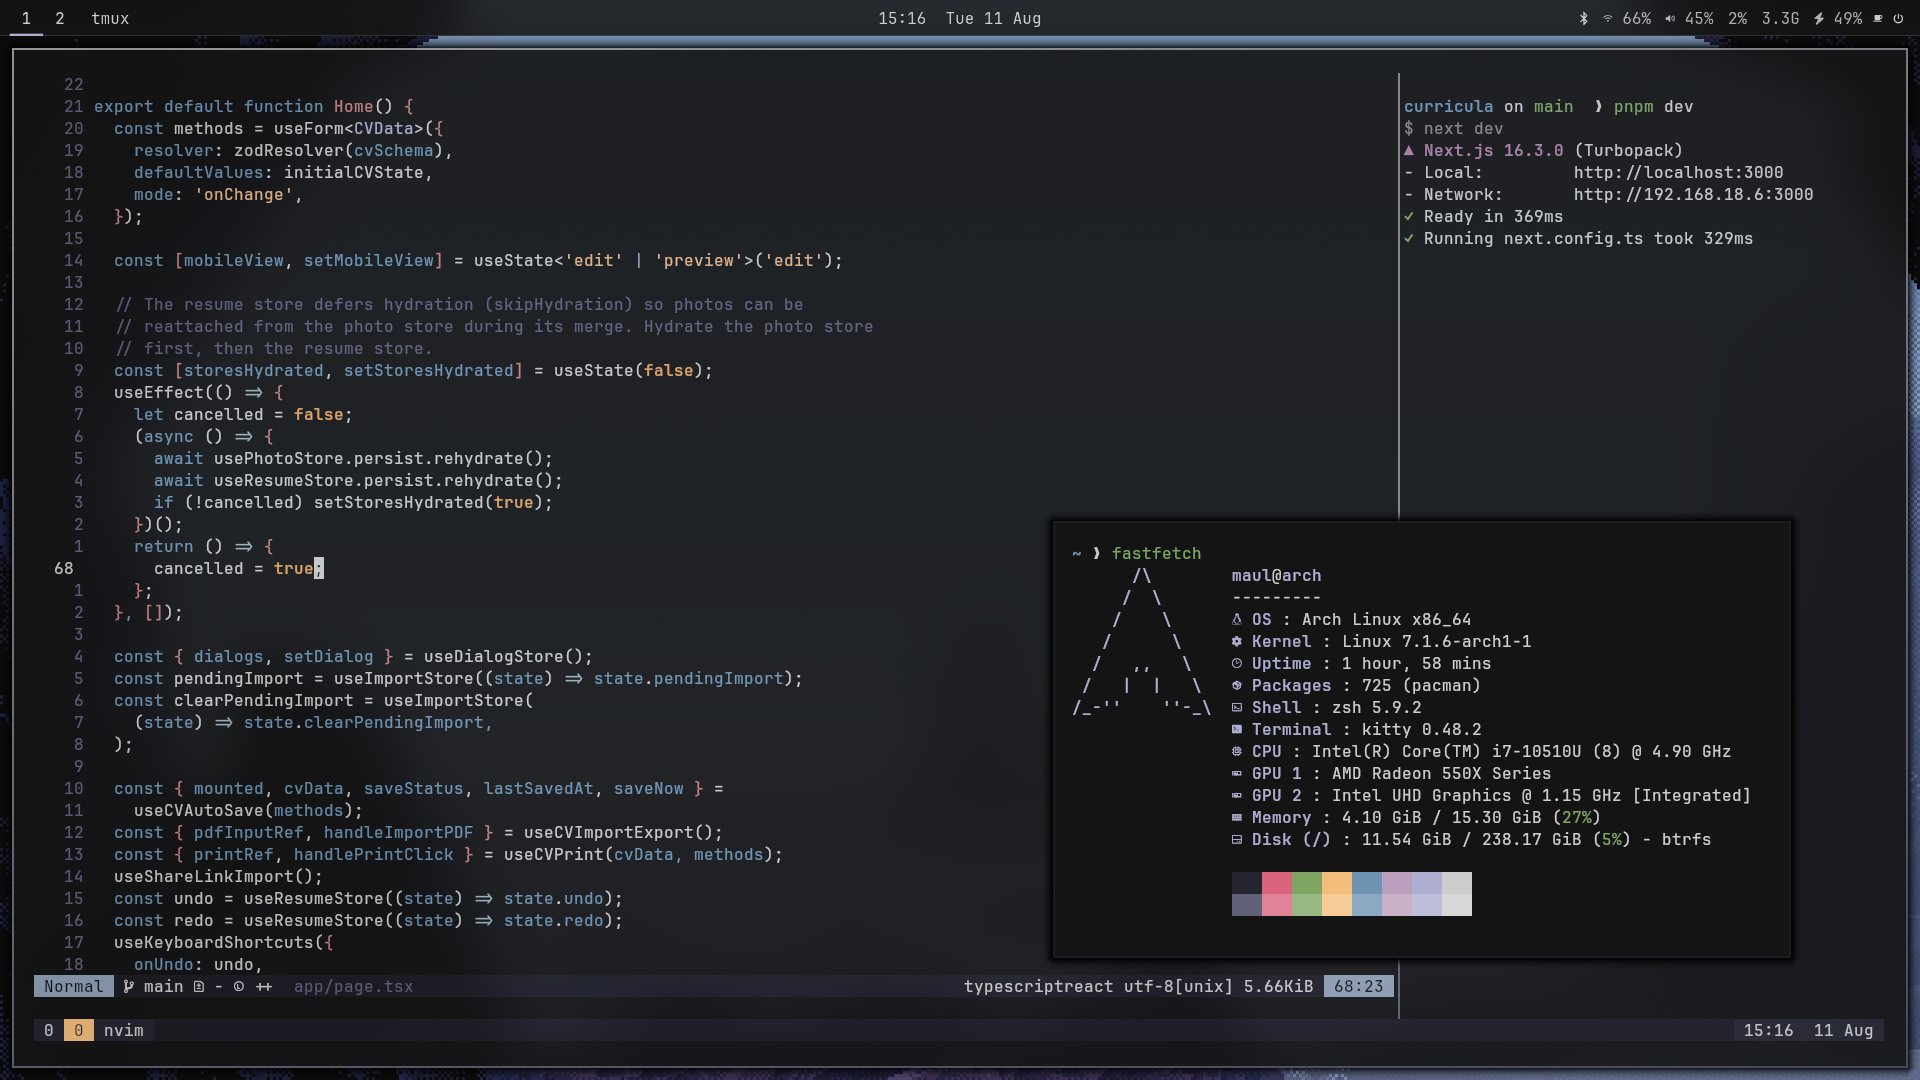
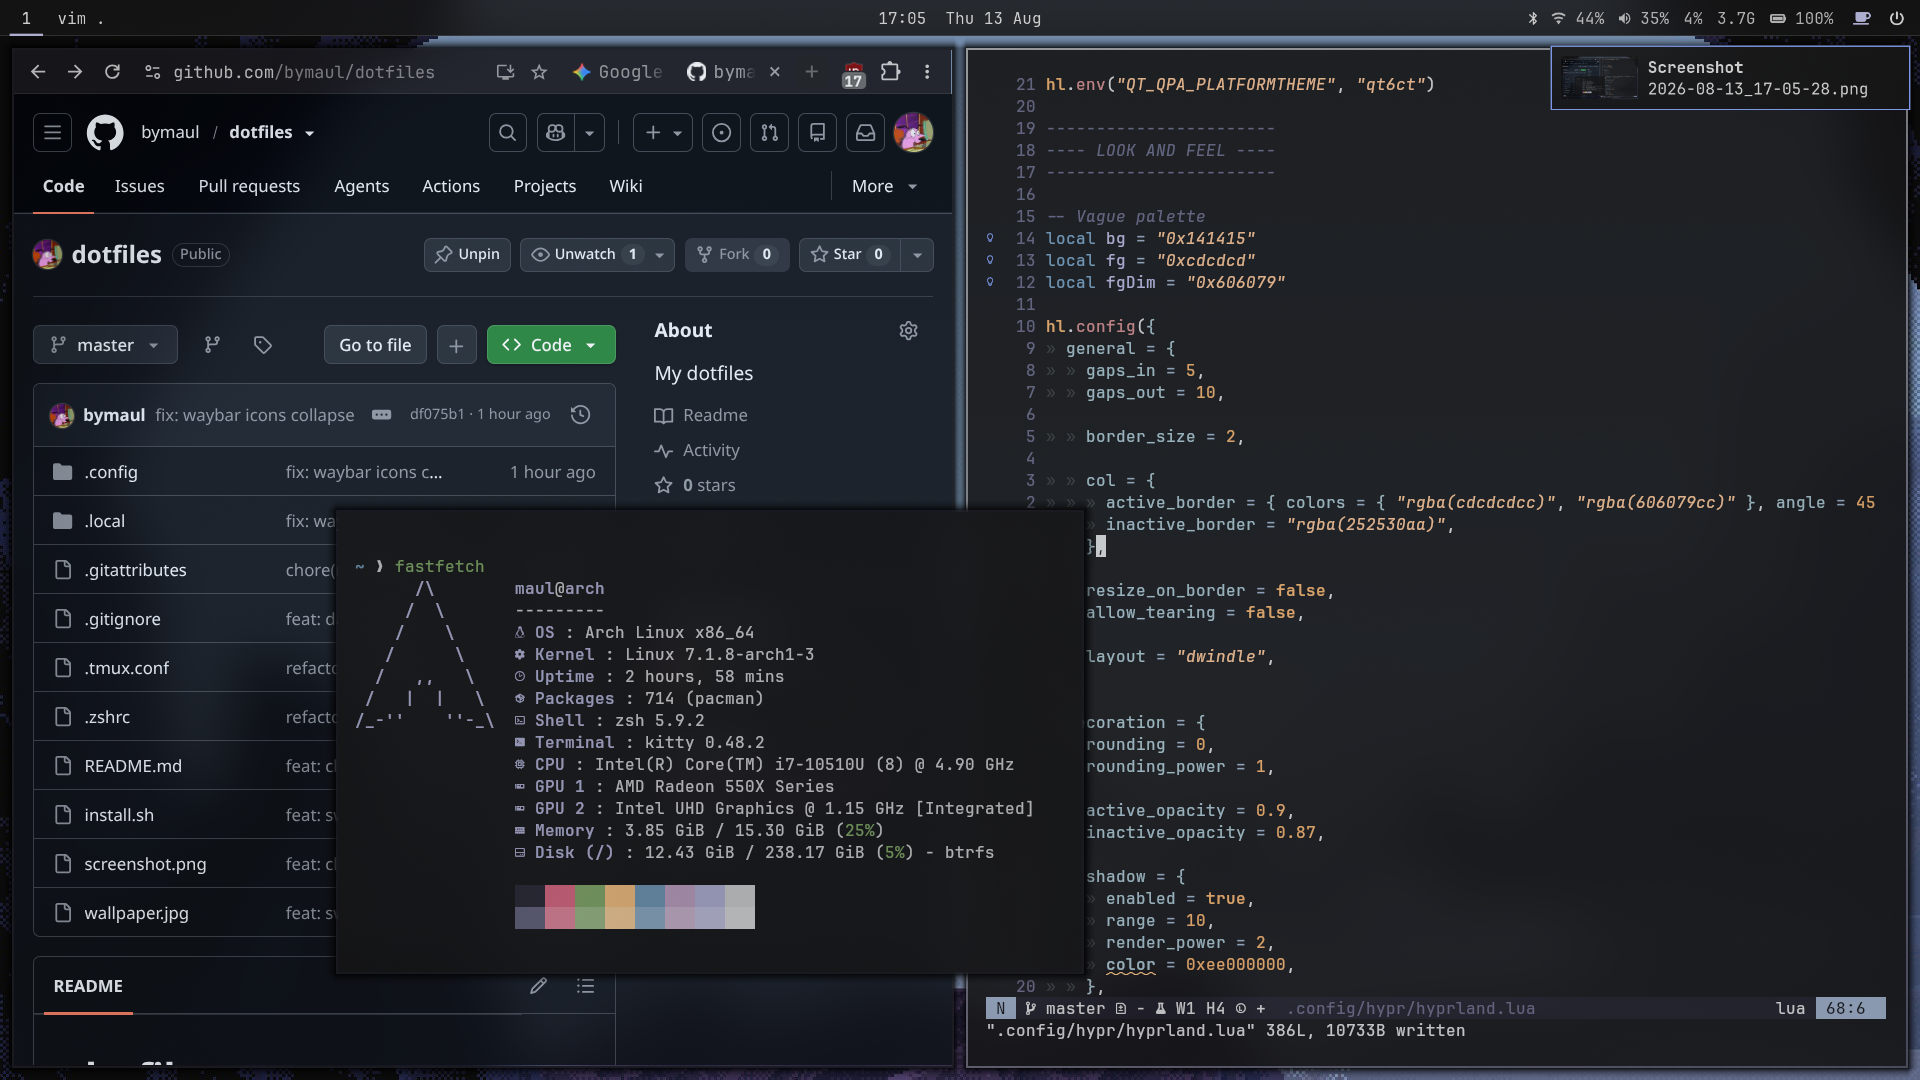
fix: update waybar font and styling

diff --git a/.config/waybar/style.css b/.config/waybar/style.css
@@ -1,5 +1,5 @@
 * {
-  font-family: "JetBrainsMono Nerd Font Mono Propo";
+  font-family: "JetBrainsMono Nerd Font Propo";
   font-size: 13px;
   min-height: 0;
   border: none;
@@ -49,13 +49,13 @@ window#waybar {
   color: #cdcdcd;
 }
 
-#group-modes {
-  padding: 0 4px;
+#modes {
+  padding: 0 6px;
 }
 
 #custom-caffeine,
 #custom-dnd {
-  padding: 0 8px;
+  padding: 0 4px;
 }
 
 #custom-caffeine.active {

diff --git a/README.md b/README.md
@@ -2,8 +2,6 @@
 
 Minimal Hyprland desktop config, managed with GNU Stow.
 
-Vague, everywhere.
-
 ![screenshot](screenshot.png)
 
 ## Setup
@@ -32,17 +30,4 @@ The repo mirrors `$HOME` directly: `.config/…`, `.local/…`, `.tmux.conf`, `.
 - **wleave** (build from source), **swaybg** (wallpaper, `pacman -S swaybg`)
 - **nvim**, **tmux**, **zsh**, **starship**, **lazygit**, **yazi**, **eza**, **bat**, **fd**, **btop**
 - **pipewire**, **brightnessctl**, **libnotify**, **wl-clipboard**, **grim**, **slurp**, **cliphist**, **playerctl**, **jq**, **polkit-kde-agent**
-- **JetBrainsMono Nerd Font**
-
-## Notes
-
-- All configs use the **vague** palette — keep new colors on-theme: bg `#141415`, fg `#cdcdcd`, dim `#606079`, accent `#7e98e8`, light accent `#aeaed1`, warning `#f3be7c`, error/critical `#d8647e`. (Rendered reds in gtk-dark.css are Adwaita base, not vague — trust `vague.tmTheme`.)
-- `.local/bin` installs to `~/.local/bin` and provides `osd-volume`, `osd-brightness`, `ws-cycle`, `caffeine-toggle`, `caffeine-status`, `dnd-toggle`, `dnd-status`, `screenshot`, `clipboard-pick`.
-- `SUPER+V` opens the cliphist/rofi picker and pastes the selection into the previously focused window; `SUPER+SHIFT+V` deletes an entry, `SUPER+SHIFT+BackSpace` clears the history.
-- `bat` ships a vendored `vague.tmTheme`; run `bat cache --build` after stowing to register the `vague` theme.
-- `yazi` ships a vendored `vague.yazi` flavor; `theme.toml` sets `[flavor] dark = "vague"`.
-- `swaybg` sets the wallpaper from `wallpaper.jpg` at the repo root on login — swap that file to change it. `SUPER+SHIFT+C` toggles caffeine mode, which blocks idle blanking/suspend via `systemd-inhibit`. `SUPER+SHIFT+D` toggles mako do-not-disturb mode (`[mode=dnd] invisible=1`, the toggle's own confirmation still shows); both toggles signal waybar for an instant indicator update. The two indicators live in a `group/modes` block before the power button: coffee glyph (caffeine on), bell-slash (DnD on).
-- `Print` / `SUPER+Print` screenshot a region / full screen: saved to `~/Pictures/Screenshots`, copied to the clipboard, and confirmed with a notification — the popup is clickable (accent border = has actions): left-click opens the file, middle-click shows an Open / Copy path menu.
-- mako: `on-button-left` dismisses; actionable notifications invoke their default action instead; middle-click runs `makoctl menu` via rofi to pick any action.
-- `SUPER+Tab` cycles only used workspaces (via `ws-cycle`).
-- `hyprctl dispatch` uses Lua expressions (`hl.dsp.*`) — the legacy `dispatch workspace N` syntax is gone.
+- **Nerd Font**
